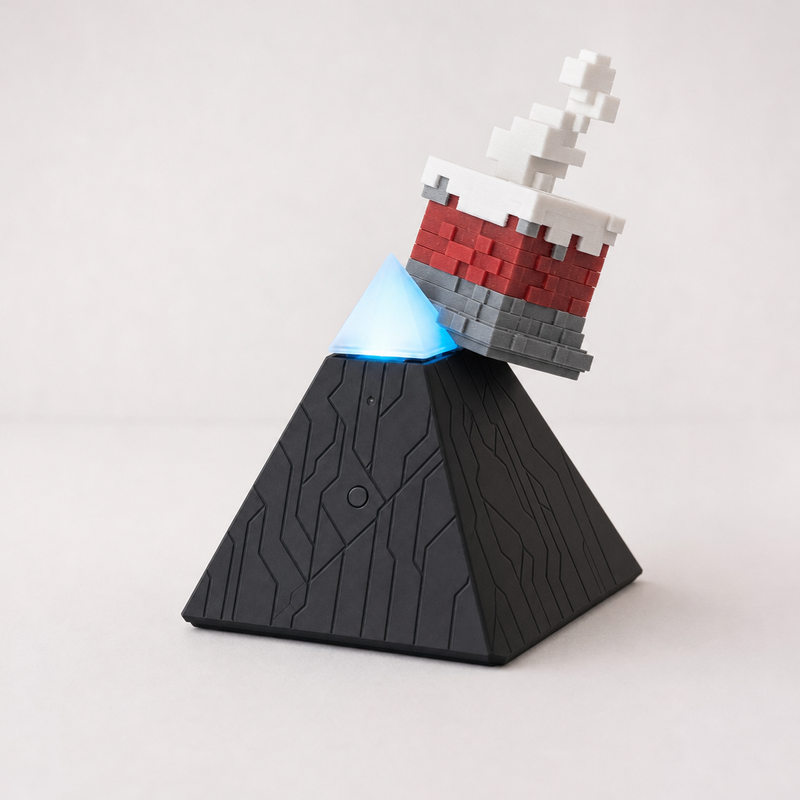
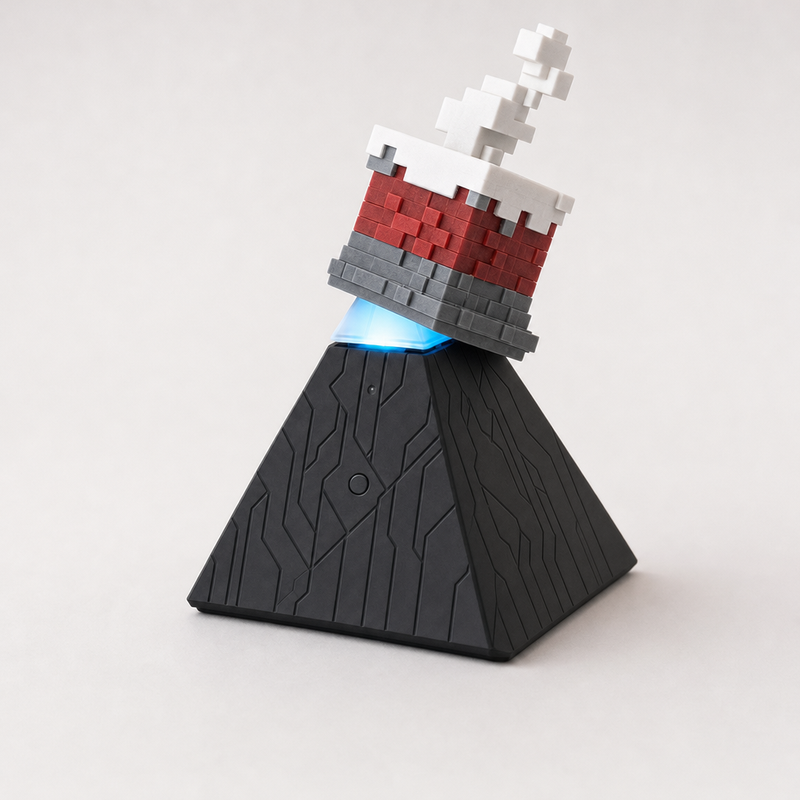
Intern hat: H6, H7, F8 chosen; F8 regenerated over the apex; round 4 tech Santa hats T1-T8

diff --git a/toys-spec/intern-hat/CONCEPTS.html b/toys-spec/intern-hat/CONCEPTS.html
@@ -2,10 +2,10 @@
 <link rel="stylesheet" href="https://fonts.googleapis.com/css2?family=Bricolage+Grotesque:wght@600;700&family=Figtree:wght@400;500&display=swap">
 <style>
 /* Layout: one column of rounds, newest first; each round is a 4-up grid of square photo cards */
-:root{--bg:#f4f2ef;--fg:#1c1b1f;--muted:#68646d;--card:#ffffff;--line:#e2dee6;--flaw:#a3321f;
+:root{--bg:#f4f2ef;--fg:#1c1b1f;--muted:#68646d;--card:#ffffff;--line:#e2dee6;--flaw:#a3321f;--chosen:#1f6b45;--chosen-fg:#ffffff;
 --display:"Bricolage Grotesque",system-ui,sans-serif;--body:"Figtree",system-ui,sans-serif}
-@media (prefers-color-scheme:dark){:root:not([data-theme="light"]){--bg:#141316;--fg:#efedf2;--muted:#a19ca8;--card:#1e1d21;--line:#322f37;--flaw:#f08a74;color-scheme:dark}}
-:root[data-theme="dark"]{--bg:#141316;--fg:#efedf2;--muted:#a19ca8;--card:#1e1d21;--line:#322f37;--flaw:#f08a74;color-scheme:dark}
+@media (prefers-color-scheme:dark){:root:not([data-theme="light"]){--bg:#141316;--fg:#efedf2;--muted:#a19ca8;--card:#1e1d21;--line:#322f37;--flaw:#f08a74;--chosen:#6fd3a0;--chosen-fg:#0e1f16;color-scheme:dark}}
+:root[data-theme="dark"]{--bg:#141316;--fg:#efedf2;--muted:#a19ca8;--card:#1e1d21;--line:#322f37;--flaw:#f08a74;--chosen:#6fd3a0;--chosen-fg:#0e1f16;color-scheme:dark}
 body{background:var(--bg);color:var(--fg);font:15px/1.5 var(--body)}
 main{max-width:1240px;margin:0 auto;padding-block:28px 48px;padding-inline:16px;display:grid;gap:36px}
 header h1{font:700 28px/1.15 var(--display);margin:0;text-wrap:balance}
@@ -21,10 +21,22 @@ figcaption b{font:600 15px var(--display)}
 figcaption span{color:var(--muted);font-size:13.5px}
 figcaption .sz{font-size:12px;letter-spacing:.02em}
 figcaption .flaw{color:var(--flaw)}
+.rec{justify-self:start;font:600 11.5px var(--body);letter-spacing:.04em;text-transform:uppercase;color:var(--chosen-fg);background:var(--chosen);padding:2px 8px;border-radius:99px}
+figure.chosen{border-color:var(--chosen)}
 </style>
 <main>
 <header><h1>Mũ Giáng sinh cho Intern</h1>
 <p>Mũ đội lệch trên chóp đèn (kim tự tháp đáy 35 mm, cao 32 mm), để một phần đèn vẫn sáng và không che nút. Vòng mới nhất ở trên cùng.</p></header>
+<section><h2>Vòng 4: mũ Noel truyền thống + chi tiết tech <small>T1–T8</small></h2><div class="grid">
+<figure><img src="concepts/round4/t1_circuit-band.png" alt="T1 Circuit Band" loading="lazy"><figcaption><b>T1 Circuit Band</b><span class="sz">Mũ cho chóp đáy 35 mm, cao ~30–45 mm</span><span>Viền lông trắng có đường mạch vàng nổi, quả bông là con chip vàng nhỏ</span></figcaption></figure>
+<figure><img src="concepts/round4/t2_led-pompom.png" alt="T2 LED Pompom" loading="lazy"><figcaption><b>T2 LED Pompom</b><span class="sz">Mũ cho chóp đáy 35 mm, cao ~30–45 mm</span><span>Quả bông thay bằng bóng LED nhỏ có chân dây</span><span class="flaw">Lỗi ảnh: bóng LED khá nhỏ</span></figcaption></figure>
+<figure><img src="concepts/round4/t3_usb-tip.png" alt="T3 USB-C Tip" loading="lazy"><figcaption><b>T3 USB-C Tip</b><span class="sz">Mũ cho chóp đáy 35 mm, cao ~30–45 mm</span><span>Đuôi mũ kết thúc bằng đầu cắm USB-C thay cho quả bông</span></figcaption></figure>
+<figure><img src="concepts/round4/t4_keycap-pompom.png" alt="T4 Keycap Pompom" loading="lazy"><figcaption><b>T4 Keycap Pompom</b><span class="sz">Mũ cho chóp đáy 35 mm, cao ~30–45 mm</span><span>Quả bông thay bằng một keycap bàn phím cơ màu trắng</span><span class="flaw">Lỗi ảnh: keycap khá nhỏ</span></figcaption></figure>
+<figure><img src="concepts/round4/t5_wifi-antenna.png" alt="T5 Antenna" loading="lazy"><figcaption><b>T5 Antenna</b><span class="sz">Mũ cho chóp đáy 35 mm, cao ~30–45 mm</span><span>Ăng-ten router đen cắm thẳng lên trên mũ</span><span class="flaw">Lỗi ảnh: tạo lại 1 lần vì lần đầu ăng-ten trông như con chim</span></figcaption></figure>
+<figure><img src="concepts/round4/t6_headset-santa.png" alt="T6 Headset Santa" loading="lazy"><figcaption><b>T6 Headset Santa</b><span class="sz">Mũ cho chóp đáy 35 mm, cao ~30–45 mm</span><span>Mũ Noel đeo tai nghe có mic, như trợ lý trực tổng đài (Intern là trợ lý giọng nói)</span></figcaption></figure>
+<figure><img src="concepts/round4/t7_fiber-pompom.png" alt="T7 Fiber-Optic Pompom" loading="lazy"><figcaption><b>T7 Fiber-Optic Pompom</b><span class="sz">Mũ cho chóp đáy 35 mm, cao ~30–45 mm</span><span>Quả bông là chùm sợi quang, đầu sợi sáng xanh</span><span class="flaw">Lỗi ảnh: sợi quang mảnh, khó in bằng PLA</span></figcaption></figure>
+<figure><img src="concepts/round4/t8_cursor-charm.png" alt="T8 Cursor Charm" loading="lazy"><figcaption><b>T8 Cursor Charm</b><span class="sz">Mũ cho chóp đáy 35 mm, cao ~30–45 mm</span><span>Đuôi mũ treo con trỏ chuột thay cho quả bông</span></figcaption></figure>
+</div></section>
 <section><h2>Vòng 3: ống khói <small>F1–F8</small></h2><div class="grid">
 <figure><img src="concepts/round3/f1_brick-chimney.png" alt="F1 Brick Chimney" loading="lazy"><figcaption><b>F1 Brick Chimney</b><span class="sz">Mũ cho chóp đáy 35 mm, cao ~30–45 mm</span><span>Ống khói gạch đỏ có tuyết trên miệng, đội nghiêng như mũ</span></figcaption></figure>
 <figure><img src="concepts/round3/f2_santa-boots.png" alt="F2 Santa Stuck" loading="lazy"><figcaption><b>F2 Santa Stuck</b><span class="sz">Mũ cho chóp đáy 35 mm, cao ~30–45 mm</span><span>Ông già Noel kẹt trong ống khói, chỉ thò hai chân đi ủng lên trên</span></figcaption></figure>
@@ -33,7 +45,7 @@ figcaption .flaw{color:var(--flaw)}
 <figure><img src="concepts/round3/f5_stocking-chimney.png" alt="F5 Stocking Chimney" loading="lazy"><figcaption><b>F5 Stocking Chimney</b><span class="sz">Mũ cho chóp đáy 35 mm, cao ~30–45 mm</span><span>Ống khói đá kem treo chiếc tất Noel đỏ, có nhánh nhựa ruồi</span></figcaption></figure>
 <figure><img src="concepts/round3/f6_gift-delivery.png" alt="F6 Gift Delivery" loading="lazy"><figcaption><b>F6 Gift Delivery</b><span class="sz">Mũ cho chóp đáy 35 mm, cao ~30–45 mm</span><span>Ống khói gạch với hộp quà đang thả dở xuống miệng</span></figcaption></figure>
 <figure><img src="concepts/round3/f7_beacon-chimney.png" alt="F7 Beacon Chimney" loading="lazy"><figcaption><b>F7 Beacon Chimney</b><span class="sz">Mũ cho chóp đáy 35 mm, cao ~30–45 mm</span><span>Ống khói rỗng, ánh đèn xanh từ chóp hắt lên qua miệng ống</span><span class="flaw">Lỗi ảnh: luồng sáng bốc lên là hiệu ứng ảnh; thực tế chỉ thấy miệng ống sáng</span></figcaption></figure>
-<figure><img src="concepts/round3/f8_pixel-chimney.png" alt="F8 Pixel Chimney" loading="lazy"><figcaption><b>F8 Pixel Chimney</b><span class="sz">Mũ cho chóp đáy 35 mm, cao ~30–45 mm</span><span>Ống khói gạch pixel 8-bit với khói pixel bậc thang</span><span class="flaw">Lỗi ảnh: tạo lại 1 lần vì lần đầu đội thẳng; lần hai lại nằm lệch hẳn ra cạnh chóp, không trùm đỉnh</span></figcaption></figure>
+<figure class="chosen"><img src="concepts/round3/f8_pixel-chimney.png" alt="F8 Pixel Chimney" loading="lazy"><figcaption><span class="rec">Đã chọn</span><b>F8 Pixel Chimney</b><span class="sz">Mũ cho chóp đáy 35 mm, cao ~30–45 mm</span><span>Ống khói gạch pixel 8-bit với khói pixel bậc thang</span><span class="flaw">Ảnh đã tạo lại để ống khói trùm lên đỉnh chóp; giờ đội gần như thẳng, ít nghiêng</span></figcaption></figure>
 </div></section>
 <section><h2>Vòng 2: nhiều màu hơn <small>M1–M8</small></h2><div class="grid">
 <figure><img src="concepts/round2/m1_patchwork-santa.png" alt="M1 Patchwork Santa" loading="lazy"><figcaption><b>M1 Patchwork Santa</b><span class="sz">Mũ cho chóp đáy 35 mm, cao ~30–45 mm</span><span>Mũ Noel ghép mảnh đỏ, xanh lá, vàng, xanh ngọc, hồng; quả bông len nhiều màu</span><span class="flaw">Lỗi ảnh: trông như vải, in PLA sẽ thành vỏ cứng</span></figcaption></figure>
@@ -51,7 +63,7 @@ figcaption .flaw{color:var(--flaw)}
 <figure><img src="concepts/h3_holly-beret.jpg" alt="H3 Holly Beret" loading="lazy"><figcaption><b>H3 Holly Beret</b><span class="sz">Mũ cho chóp đáy 35 mm, cao ~30–45 mm</span><span>Mũ nồi đỏ đội nghiêng, cài nhánh nhựa ruồi</span></figcaption></figure>
 <figure><img src="concepts/h4_pixel-hat.jpg" alt="H4 Pixel Santa Hat" loading="lazy"><figcaption><b>H4 Pixel Santa Hat</b><span class="sz">Mũ cho chóp đáy 35 mm, cao ~30–45 mm</span><span>Mũ Noel pixel 8-bit, cùng bộ với Pixel Tree Key</span></figcaption></figure>
 <figure><img src="concepts/h5_candy-stocking.jpg" alt="H5 Candy-Cane Stocking" loading="lazy"><figcaption><b>H5 Candy-Cane Stocking</b><span class="sz">Mũ cho chóp đáy 35 mm, cao ~30–45 mm</span><span>Mũ dài sọc đỏ kem, đuôi chạy dọc cạnh thân</span></figcaption></figure>
-<figure><img src="concepts/h6_tree-cone.jpg" alt="H6 Tree Cone" loading="lazy"><figcaption><b>H6 Tree Cone</b><span class="sz">Mũ cho chóp đáy 35 mm, cao ~30–45 mm</span><span>Mũ hình cây thông 3 tầng, sao vàng</span></figcaption></figure>
-<figure><img src="concepts/h7_antler-beanie.jpg" alt="H7 Antler Beanie" loading="lazy"><figcaption><b>H7 Antler Beanie</b><span class="sz">Mũ cho chóp đáy 35 mm, cao ~30–45 mm</span><span>Mũ len có gạc tuần lộc nhỏ</span><span class="flaw">Lỗi ảnh: đội gần như thẳng, không lệch</span></figcaption></figure>
+<figure class="chosen"><img src="concepts/h6_tree-cone.jpg" alt="H6 Tree Cone" loading="lazy"><figcaption><span class="rec">Đã chọn</span><b>H6 Tree Cone</b><span class="sz">Mũ cho chóp đáy 35 mm, cao ~30–45 mm</span><span>Mũ hình cây thông 3 tầng, sao vàng</span></figcaption></figure>
+<figure class="chosen"><img src="concepts/h7_antler-beanie.jpg" alt="H7 Antler Beanie" loading="lazy"><figcaption><span class="rec">Đã chọn</span><b>H7 Antler Beanie</b><span class="sz">Mũ cho chóp đáy 35 mm, cao ~30–45 mm</span><span>Mũ len có gạc tuần lộc nhỏ</span><span class="flaw">Lỗi ảnh: đội gần như thẳng, không lệch</span></figcaption></figure>
 <figure><img src="concepts/h8_gift-bow.jpg" alt="H8 Gift Bow Cap" loading="lazy"><figcaption><b>H8 Gift Bow Cap</b><span class="sz">Mũ cho chóp đáy 35 mm, cao ~30–45 mm</span><span>Mũ đỏ ngắn quấn ruy băng vàng có nơ</span></figcaption></figure>
 </div></section></main>

diff --git a/toys-spec/intern-hat/NOTES.md b/toys-spec/intern-hat/NOTES.md
@@ -112,3 +112,36 @@ Flaws:
   mouth would glow.
 - F8 was regenerated once, because the first image sat straight. The second
   image floats beside the tip instead of covering the apex.
+
+## Owner decisions, 2026-10-08
+
+- **Chosen: H6 Tree Cone, H7 Antler Beanie and F8 Pixel Chimney.**
+- F8 was regenerated, because "cái ảnh nó nhìn kiểu ống khói nằm ngoài hoàn
+  toàn". The new image used `--ref` set to the previous F8 (the concept to
+  keep) and H1 (the correct over-the-apex fit). The chimney's open bottom now
+  slips over the apex. It sits almost upright, with little tilt.
+
+## Round 4: traditional Santa hat with one tech detail (`concepts/round4/`), 2026-10-08
+
+The owner's ask: "thử theo hướng khác thú vị hơn, kết hợp mũ giáng sinh
+truyền thống với một trang trí kiểu tech". Each hat is a red Santa hat with a
+white band and pompom, plus one tech detail.
+
+| ID | Name | Tech detail |
+|---|---|---|
+| T1 | Circuit Band | Gold circuit traces on the band; the pompom is a tiny gold chip |
+| T2 | LED Pompom | A small LED bulb on a wire leg replaces the pompom |
+| T3 | USB-C Tip | The tip ends in a USB-C plug |
+| T4 | Keycap Pompom | A blank mechanical keycap replaces the pompom |
+| T5 | Antenna | A router antenna sticks up from the hat |
+| T6 | Headset Santa | A headset with a boom mic, because the Intern is a voice assistant |
+| T7 | Fiber-Optic Pompom | A burst of glowing fiber-optic strands |
+| T8 | Cursor Charm | A mouse-pointer cursor hangs from the tip |
+
+Source: text prompts with `--ref` set to `concepts/h1_santa-slouch.jpg` and
+`source/owner-sketch.png`.
+
+Flaws:
+- T5 was regenerated once, because the first antenna looked like a bird.
+- T2's bulb and T4's keycap are small.
+- T7's thin strands are hard to print in PLA.
